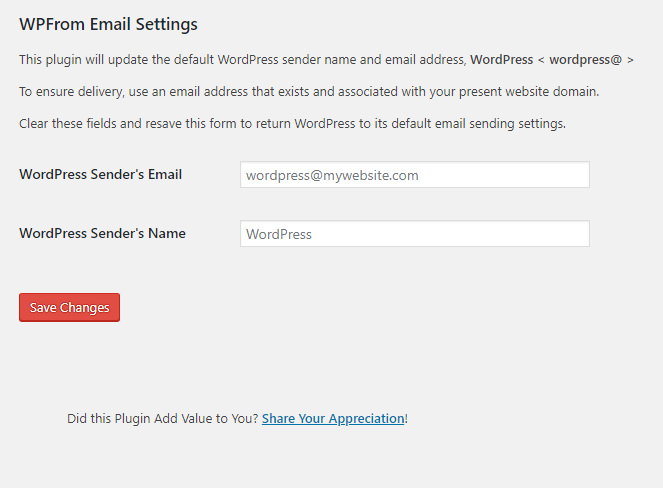
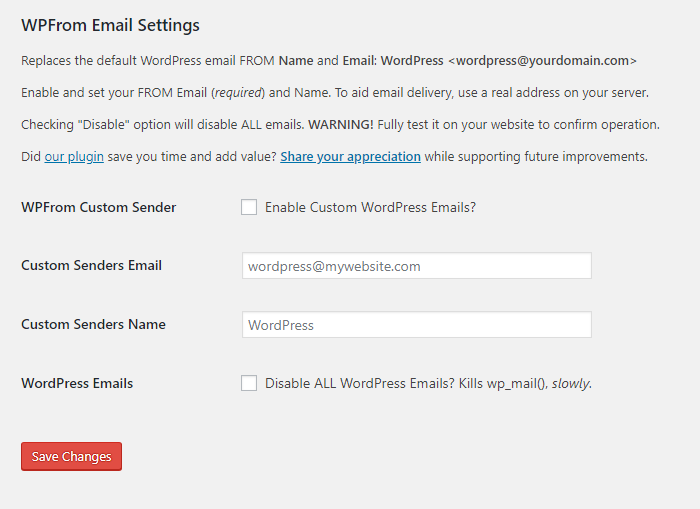
Upgraded to v1.4

diff --git a/wpfrom-email.php b/wpfrom-email.php
@@ -1,19 +1,18 @@
 <?php
-/*
+/* --------------------------------------------------
 Plugin Name: WPFrom Email
 Plugin URI: https://endurtech.com/wpfrom-wordpress-plugin-change-default-from-email-and-name/
-Description: Easily change the default 'from' wordpress@ email address and name.
+Description: Replaces the default WordPress email FROM Name and Email: WordPress &lt;wordpress@yourdomain.com&gt;
 Author: Manny Rodrigues
 Author URI: https://endurtech.com
-Donate link: https://endurtech.com/give-thanks/
-Version: 1.0
-Requires at least: 5.0
-Tested up to: 5.2.2
 Requires PHP: 7.0
+Requires WP: 5.0+
+Tested to: 5.2.2
+Version: 1.4
+License: GPLv2 or later
 Domain Path: languages
 Text Domain: wpfrom-emails
-License: GPLv2 or later
-*/
+-------------------------------------------------- */
 
 if ( ! defined( 'ABSPATH' ) ) {
   exit(); // Exit if accessed directly.
@@ -33,29 +32,76 @@ function wpfrom_mail_load_textdomain()
 }
 */
 
+// Add link to plugin settings from "Settings" menu
+add_action( 'admin_menu', 'wpfrom_mail_sender_menu' );
+function wpfrom_mail_sender_menu()
+{
+	add_options_page( __(WPF_SETTINGS), __(WPF_TITLE), 'manage_options', 'wpfrom-email', 'wpfrom_mail_sender_output' );
+}
+
+// Add link to plugin settings from "Plugins" page
+add_filter( 'plugin_action_links_'.plugin_basename(__FILE__), 'wpfrom_email_settings_link' );
+function wpfrom_email_settings_link( $links )
+{
+	$links[] = '<a href="' . admin_url( 'options-general.php?page=wpfrom-email' ) . '">' . __('Settings') . '</a>';
+	return $links;
+}
+
+// Add notice to admin dashboard of disabled emails
+add_filter( 'dashboard_glance_items', 'dashboardStatus' );
+function dashboardStatus( $glances )
+{
+  $email_killer_init = get_option( 'wpfrom_kill_email_id' );
+  if( $email_killer_init == '1' ) {
+    $glances[] = '<li style="float:none;"><i class="dashicons dashicons-email" aria-hidden="true" style="color:#e14d43;"></i> WordPress Emails <strong>Disabled</strong></li>';
+	}
+	return $glances;
+}
+
+// WPFrom Plugin Deactivation Database Cleanup, You're welcome!
+register_deactivation_hook( __FILE__, 'wpfrom_deactivation_cleaner' );
+function wpfrom_deactivation_cleaner()
+{
+  delete_option( 'wpfrom_custom_sender_id' );
+  delete_option( 'wpfrom_mail_sender_email_id' );
+  delete_option( 'wpfrom_mail_sender_id' ); // since 1.0, now junk
+  delete_option( 'wpfrom_mail_sender_name_id' );
+  delete_option( 'wpfrom_kill_email_id' );
+}
+
 // WordPress plugin registration
 add_action( 'admin_init', 'wpfrom_mail_sender_register' );
 function wpfrom_mail_sender_register()
 {
-	add_settings_section( 'wpfrom_mail_sender_section', WPF_SETTINGS, 'wpfrom_mail_sender_text', 'wpfrom_mail_sender' );
-
-	add_settings_field( 'wpfrom_mail_sender_email_id', __('WordPress Sender\'s Email', 'wpfrom-mail'), 'wpfrom_mail_sender_email', 'wpfrom_mail_sender', 'wpfrom_mail_sender_section' );
-
-	add_settings_field( 'wpfrom_mail_sender_id', __('WordPress Sender\'s Name', 'wpfrom-mail'), 'wpfrom_mail_sender_function', 'wpfrom_mail_sender', 'wpfrom_mail_sender_section' );
-	register_setting( 'wpfrom_mail_sender_section', 'wpfrom_mail_sender_id' );
-
-	register_setting( 'wpfrom_mail_sender_section', 'wpfrom_mail_sender_email_id' );
+  // Settings Section
+  add_settings_section( 'wpfrom_mail_sender_section', WPF_SETTINGS, 'wpfrom_mail_sender_text', 'wpfrom_mail_sender' );
+  // Enable WordPress Custom Emails
+  add_settings_field( 'wpfrom_custom_sender_id', __('WPFrom Custom Sender', 'wpfrom-mail'), 'wpfrom_custom_sender', 'wpfrom_mail_sender', 'wpfrom_mail_sender_section' );
+  register_setting( 'wpfrom_mail_sender_section', 'wpfrom_custom_sender_id' );
+  // Custom WordPress Sender Email
+	add_settings_field( 'wpfrom_mail_sender_email_id', __('Custom Senders Email', 'wpfrom-mail'), 'wpfrom_mail_sender_email', 'wpfrom_mail_sender', 'wpfrom_mail_sender_section' );
+  register_setting( 'wpfrom_mail_sender_section', 'wpfrom_mail_sender_email_id' );
+  // Custom WordPress Sender Name
+	add_settings_field( 'wpfrom_mail_sender_name_id', __('Custom Senders Name', 'wpfrom-mail'), 'wpfrom_mail_sender_name', 'wpfrom_mail_sender', 'wpfrom_mail_sender_section' );
+  register_setting( 'wpfrom_mail_sender_section', 'wpfrom_mail_sender_name_id' );
+  // Disable WordPress Emails ALL
+  add_settings_field( 'wpfrom_kill_email_id', __('WordPress Emails', 'wpfrom-mail'), 'wpfrom_mail_killer', 'wpfrom_mail_sender', 'wpfrom_mail_sender_section' );
+  register_setting( 'wpfrom_mail_sender_section', 'wpfrom_kill_email_id' );
 }
 
-// Page description
-function wpfrom_mail_sender_text()
+// Enable WPFrom Custom Sender checkbox
+function wpfrom_custom_sender()
 {
-  echo '<p>This plugin will update the default WordPress sender name and email address, <strong>WordPress < wordpress@ ></strong></p>
-  <p>To ensure delivery, use an email address that exists and associated with your present website domain.</p>
-  <p>Clear these fields and resave this form to return WordPress to its default email sending settings.</p>';
+  $custom_email = get_option( 'wpfrom_custom_sender_id' );
+  if( ! isset ( $custom_email ) || $custom_email == '' ) {
+    delete_option( 'wpfrom_custom_sender_id' );
+  } else {
+    $custom_email = 'checked="checked" ';
+  }
+  echo '<input name="wpfrom_custom_sender_id" id="wpfrom_custom_sender_id" type="checkbox" value="1" '.$custom_email.'/> <label for="wpfrom_custom_sender_id">Enable Custom WordPress Emails?</em></label>';
 }
 
-// Email field
+// FROM Email field
 function wpfrom_mail_sender_email()
 {
   $sender_email = get_option( 'wpfrom_mail_sender_email_id' );
@@ -65,14 +111,35 @@ function wpfrom_mail_sender_email()
   echo '<input name="wpfrom_mail_sender_email_id" id="wpfrom_mail_sender_email_id" type="email" placeholder="wordpress@mywebsite.com" class="regular-text" value="' . $sender_email . '" />';
 }
 
-// From field
-function wpfrom_mail_sender_function()
+// FROM Name field
+function wpfrom_mail_sender_name()
 {
-  $sender_name = get_option( 'wpfrom_mail_sender_id' );
+  $sender_name = get_option( 'wpfrom_mail_sender_name_id' );
   if( $sender_name == '' ) {
-    delete_option( 'wpfrom_mail_sender_id' );
+    delete_option( 'wpfrom_mail_sender_name_id' );
   }
-  echo '<input name="wpfrom_mail_sender_id" id="wpfrom_mail_sender_id" type="text" placeholder="WordPress" class="regular-text" value="' . $sender_name . '" />';
+  echo '<input name="wpfrom_mail_sender_name_id" id="wpfrom_mail_sender_name_id" type="text" placeholder="WordPress" class="regular-text" value="' . $sender_name . '" />';
+}
+
+// Disable WordPress Emails checkbox
+function wpfrom_mail_killer()
+{
+  $email_killer = get_option( 'wpfrom_kill_email_id' );
+  if( ! isset ( $email_killer ) || $email_killer == '' ) {
+    delete_option( 'wpfrom_kill_email_id' );
+  } else {
+    $email_killer = 'checked="checked" ';
+  }
+  echo '<input name="wpfrom_kill_email_id" id="wpfrom_kill_email_id" type="checkbox" value="1" '.$email_killer.'/> <label for="wpfrom_kill_email_id">Disable ALL WordPress Emails? Kills wp_mail(), <em>slowly.</em></label>';
+}
+
+// Page description
+function wpfrom_mail_sender_text()
+{
+  echo '<p>Replaces the default WordPress email FROM <strong>Name</strong> and <strong>Email</strong>: <strong>WordPress &lt;wordpress@yourdomain.com&gt;</strong></p>
+  <p>Enable and set your FROM Email (<em>required</em>) and Name. To aid email delivery, use a real address on your server.</p>
+  <p>Checking "Disable" option will disable ALL emails. <strong>WARNING!</strong> Fully test it on your website to confirm operation.</p>
+  <p>Did <a href="https://endurtech.com/wpfrom-wordpress-plugin-to-change-the-default-from-email-and-name/" target="_blank" title="Opens New Window">our plugin</a> save you time and add value? <a href="https://paypal.me/endurtechnology" target="_blank" title="Opens New Window"><strong>Share your appreciation</strong></a> while supporting future improvements.</p>';
 }
 
 // Settings form
@@ -85,37 +152,42 @@ function wpfrom_mail_sender_output()
       submit_button();
   echo '</form>
   </div>';
-  // Donate
-  echo '<div style="padding:50px;">
-  <p>Did this Plugin Add Value to You? <a href="https://paypal.me/endurtechnology" target="_blank" title="Opens New Window"><strong>Share Your Appreciation</strong></a>!</p>
-  </div>';
 }
 
-// Add plugin settings page link under Settings menu
-add_action( 'admin_menu', 'wpfrom_mail_sender_menu' );
-function wpfrom_mail_sender_menu()
+// Replace default WordPress emails
+add_filter( 'wp_mail', 'wpfrom_custom_sender_init' );
+function wpfrom_custom_sender_init()
 {
-	add_options_page( __(WPF_SETTINGS), __(WPF_TITLE), 'manage_options', 'wpfrom-email', 'wpfrom_mail_sender_output' );
+  $custom_sender_init = get_option( 'wpfrom_custom_sender_id' );
+  if( $custom_sender_init == '1' ) {
+    add_filter( 'wp_mail_from', 'wpfrom_new_mail_from' );
+    add_filter( 'wp_mail_from_name', 'wpfrom_new_mail_from_name' );
+  }
 }
 
-// Add link to plugin settings from Plugins page
-add_filter( 'plugin_action_links_'.plugin_basename(__FILE__), 'wpfrom_email_settings_link' );
-function wpfrom_email_settings_link( $links )
-{
-	$links[] = '<a href="' . admin_url( 'options-general.php?page=wpfrom-email' ) . '">' . __('Settings') . '</a>';
-	return $links;
-}
-
-// Replace the default from wordpress@ email address
-add_filter( 'wp_mail_from', 'wpfrom_new_mail_from' );
-function wpfrom_new_mail_from( $old )
+// Replace the default FROM Email: wordpress@yourdomain.com
+function wpfrom_new_mail_from()
 {
   return get_option( 'wpfrom_mail_sender_email_id' );  
 }
 
-// Replace the default from wordpress@ name
-add_filter( 'wp_mail_from_name', 'wpfrom_new_mail_from_name' );
-function wpfrom_new_mail_from_name( $old )
+// Replace the default FROM Name: WordPress
+function wpfrom_new_mail_from_name()
 {
-  return get_option( 'wpfrom_mail_sender_id' );
+  return get_option( 'wpfrom_mail_sender_name_id' );
+}
+
+// Disable all WordPress email. Hook into phpmailer class, ClearAllRecipients.
+// Thanks: https://wordpress.stackexchange.com/users/111056/kirillrocks
+add_filter( 'wp_mail', 'wpfrom_email_killer' );
+function wpfrom_email_killer( $args )
+{
+  $email_killer_init = get_option( 'wpfrom_kill_email_id' );
+  if( $email_killer_init == '1' ) {
+    add_action( 'phpmailer_init', 'kickout_recipients' );
+  }
+}
+function kickout_recipients( $phpmailer )
+{
+  $phpmailer->ClearAllRecipients();
 }

diff --git a/README.md b/README.md
@@ -3,29 +3,46 @@
 Contributors: Manny Rodrigues  
 Donations: https://endurtech.com/give-thanks/  
 Tags: wordpress,email  
-Requires at least: 5.0  
-Tested up to: 5.2.2  
-Stable tag: 1.0  
+Requires PHP: 7.0  
+Requires WP: 5.0+  
+Tested to: 5.2.2  
+Stable tag: 1.4  
+License: GPLv2 or later  
 
 ## Description
 
-> Outgoing email notifications are important, and you should be using your own brand and website email address. This increases the authenticity of your brand, product or service and increases name recognition among your visitors and subscribers. No doubt, to a subscriber, receiving an email from WordPress < wordpress@ > looks very unprofessional. It may even result in email delivery issues due to Internet Service Provider and end user email client spam filters. Introducing [WPFrom Email](https://endurtech.com/wpfrom-wordpress-plugin-to-change-the-default-from-email-and-name/), a free WordPress Plugin aimed at helping you quickly and easily update the default WordPress sender name and email address.  
+> Introducing [WPFrom Email](https://endurtech.com/wpfrom-wordpress-plugin-to-change-the-default-from-email-and-name/), a WordPress Plugin aimed at helping you quickly and easily update the default WordPress sender FROM Name and Email Address.  
+
+> To increase brand authenticity and create name recognition among your visitors it is recommended update how WordPress sends out emails to your subscribers. Leaving the WordPress email sending settings in their default state may even result in email delivery issues. This is because the default wordpress@ emails usually trigger Internet Service Provider and email client spam filters.  
+
+> With this plugin, you may easily update those FROM values or completely disable ALL email sending. *Be sure to test the disable email function on your server environment to ensure proper function.*  
+
+> Did our plugin save you time and add value? [Share your appreciation](https://paypal.me/endurtechnology) while supporting future improvements.  
 
 ## Features
 
-* Convenient link added under "Settings > WPFrom Email"
-* Clean and simple replacement for default WordPress Email Notifications
+* Easily replace the default WordPress email FROM Name and Email Address.  
+* Disable ALL WordPress emails. Test on your server to confirm operation.  
+* Upon deactivation, all associated database values will be removed.  
 
 ## Installation
 
-1. Upload the plugin folder to your '/wp-content/plugins/' folder
-2. Activate the plugin through the 'Plugins' menu in WordPress
+1. Upload the plugin folder to your '/wp-content/plugins/' folder.  
+2. Activate the plugin through the 'Plugins' menu in WordPress.  
+3. Visit the plugin settings area and adjust as needed.  
 
 ## Screenshots
 
-1. WPFrom Email Settings page located under "Settings > WPFrom Email"
+1. WPFrom Email Settings page located under "Settings > WPFrom Email".  
+2. WPFrom Admin Dashboard notice of disabled emails option triggered.  
 
 ## Changelog
 
-* 1.0
-  * Initial release  
+* 1.4  
+  * +Added database cleanup function upon plugin deactivation.  
+* 1.3  
+  * +Added notice of disabled emails in admin dashboard at a glance metabox.  
+* 1.2  
+  * +Added ability to disable ALL WordPress emails.  
+* 1.0  
+  * Initial release.  
